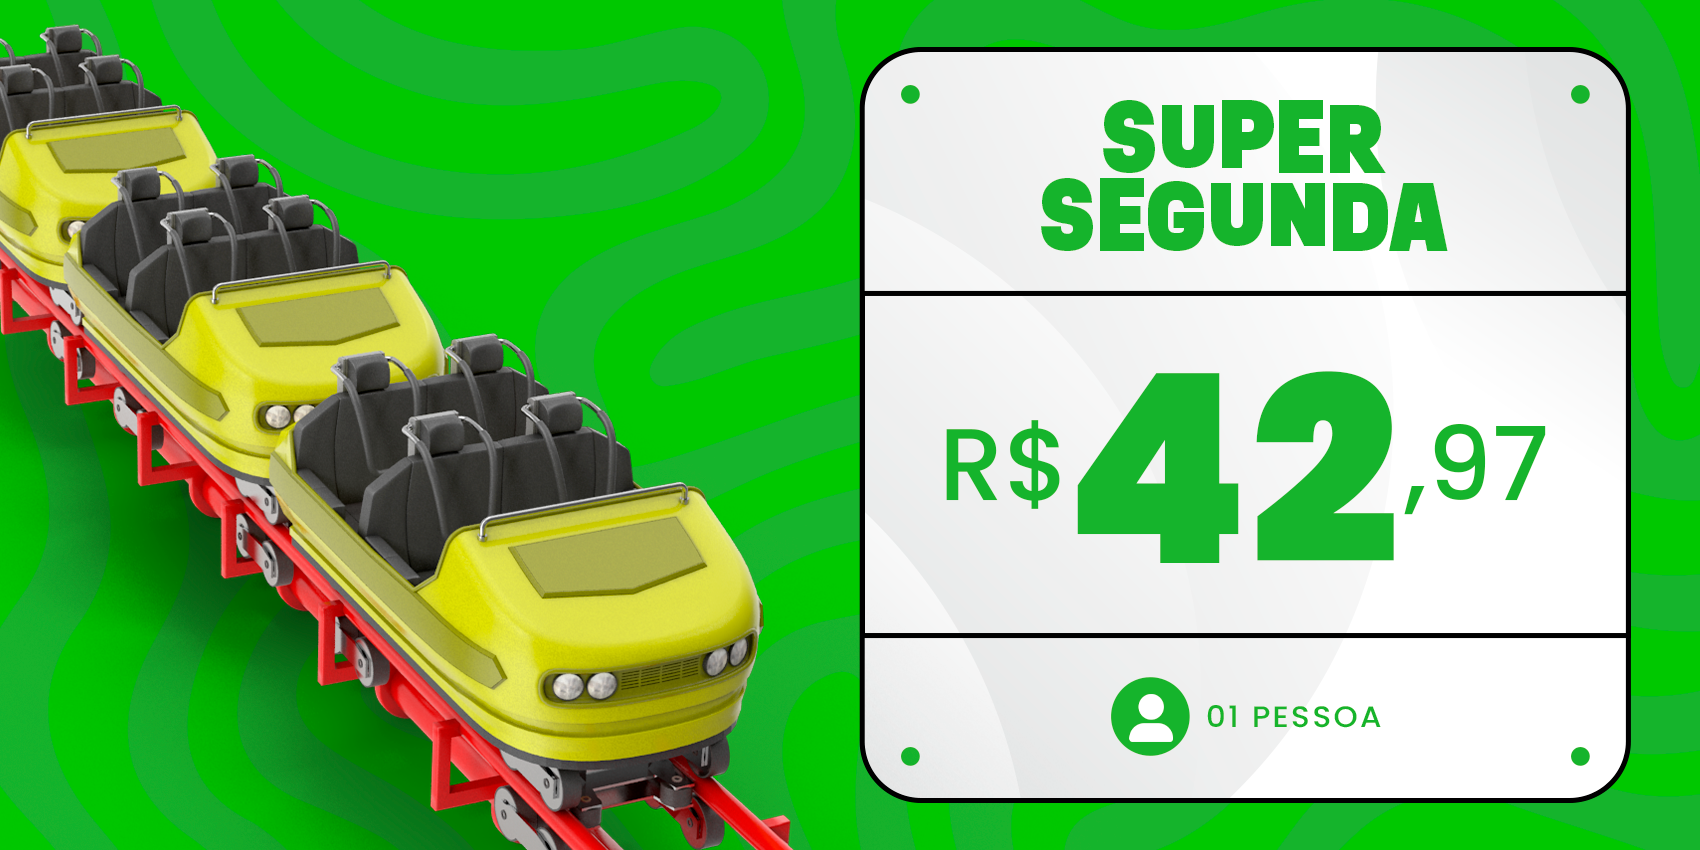
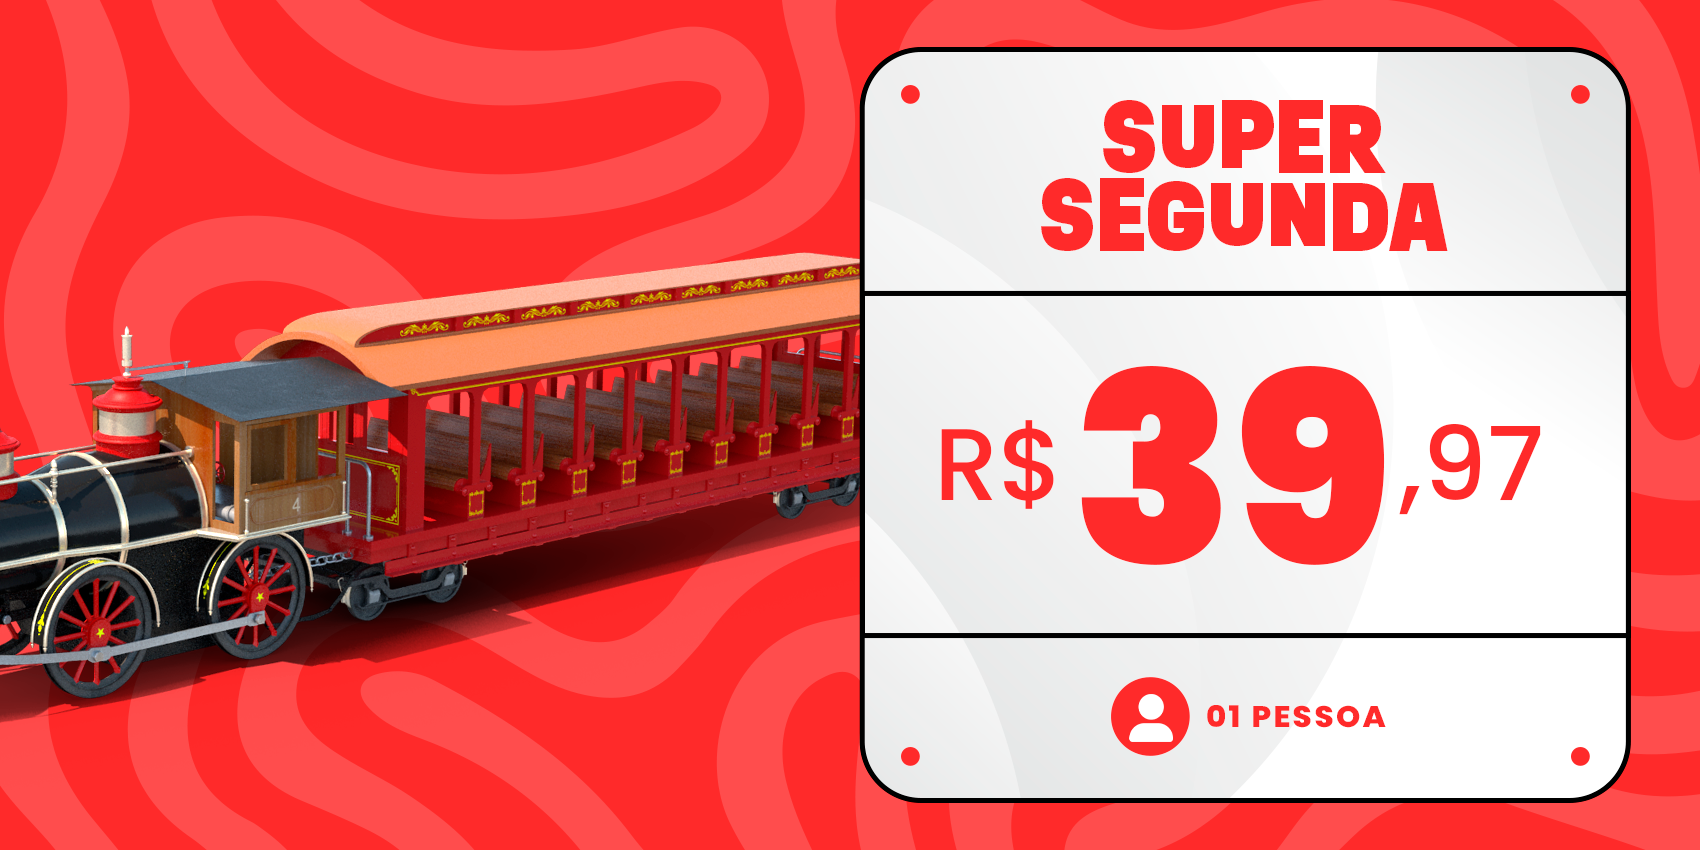
change prices

diff --git a/src/pages/passaportes/index.tsx b/src/pages/passaportes/index.tsx
@@ -53,7 +53,7 @@ export default function PassaportsPage() {
                 <Ticket
                   id={15}
                   name="Passaporte Super Segunda"
-                  price={4297}
+                  price={3997}
                   banner={PassaporteSuperSegunda}
                   quantity={1}
                   reference={4297}
@@ -63,7 +63,7 @@ export default function PassaportsPage() {
                 <Ticket
                   id={19}
                   name="Combo Super Segunda"
-                  price={6594}
+                  price={6997}
                   banner={ComboSuperSegunda}
                   quantity={2}
                   reference={4297}

diff --git a/src/components/organisms/Tickets.tsx b/src/components/organisms/Tickets.tsx
@@ -41,7 +41,7 @@ export default function Tickets() {
             <Ticket
               id={15}
               name="Passaporte Super Segunda"
-              price={4297}
+              price={3997}
               banner={PassaporteSuperSegunda}
               quantity={1}
               reference={4297}
@@ -54,7 +54,7 @@ export default function Tickets() {
             <Ticket
               id={19}
               name="Combo Super Segunda"
-              price={6594}
+              price={6997}
               banner={ComboSuperSegunda}
               quantity={2}
               reference={4297}
